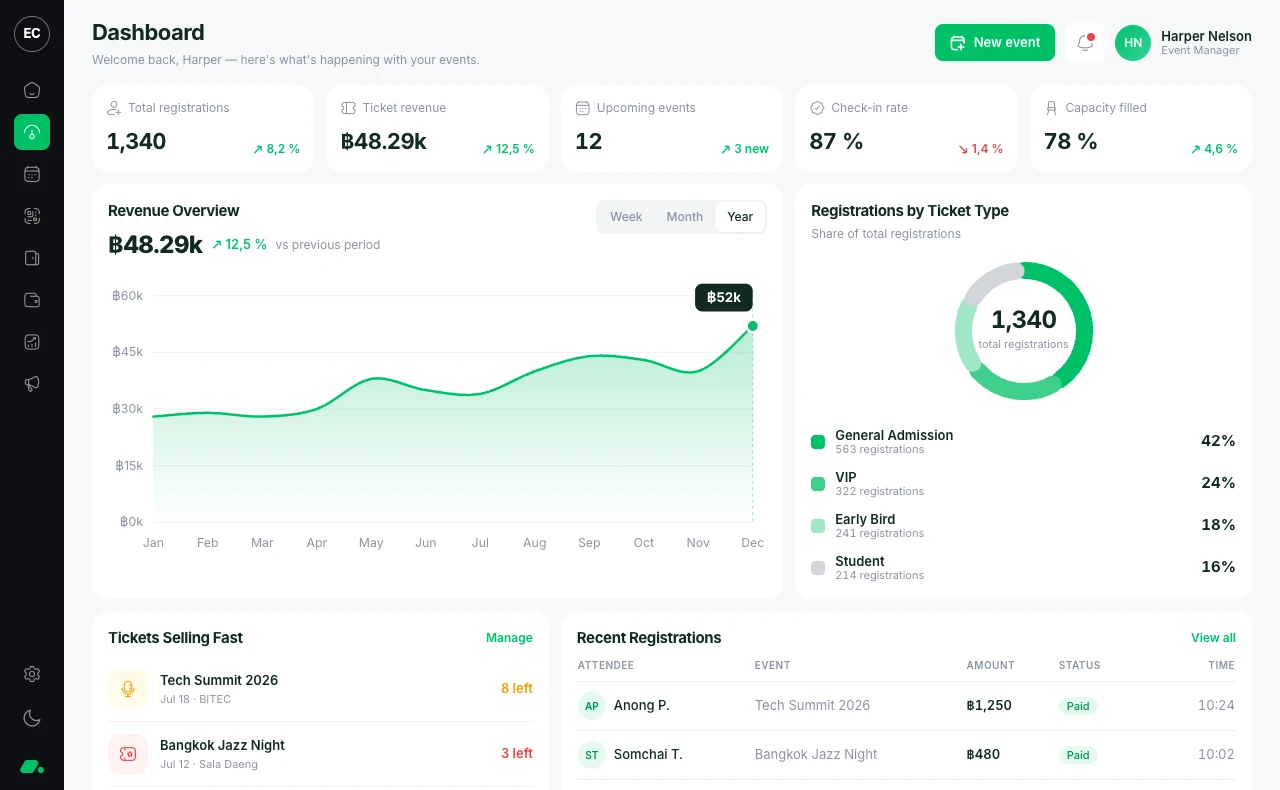
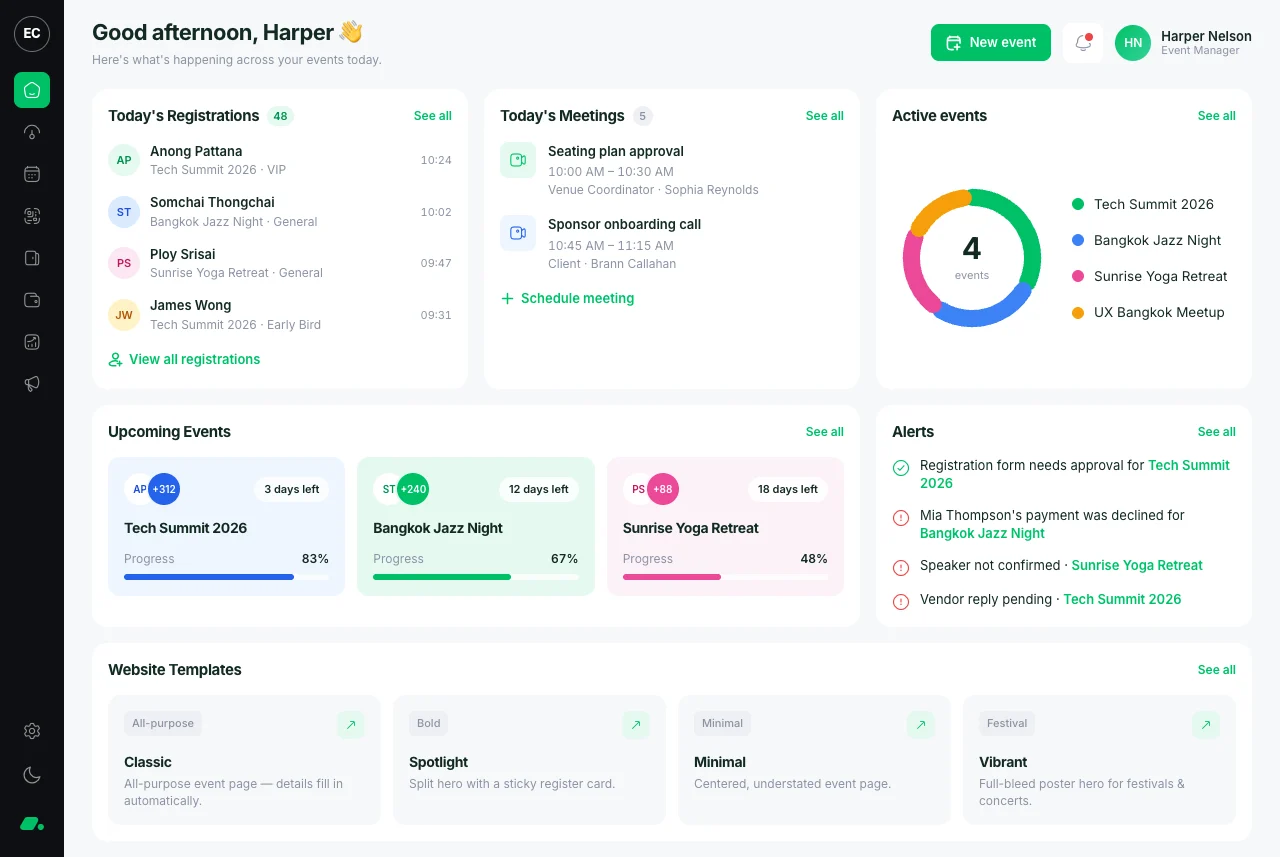
Show the Home screen in the hero instead of the dashboard
The hero is now a capture of the kit's admin/home.html at 1280x857, the
whole screen with nothing cut off. The capture is taller than the old
1280x790 one, so the 70/30 overlap and the fade are recalculated for the
new height on desktop and phones. The alt text and AGENTS.md follow.

diff --git a/css/styles.css b/css/styles.css
@@ -650,12 +650,12 @@ html:not(.js) .nav,
    --hero-gap: space between the copy and the product window.
    --hero-overlap: 70% of the frame's height. The frame is as wide as the
    container (100% less 48px of padding, at most 1152px); inside it, 22px of
-   padding and border hold the 1280 x 790 capture. That works out to 43.2% of
-   the width less 14.84px, at most 503.6px. (Margin and padding percentages
+   padding and border hold the 1280 x 857 capture. That works out to 46.87% of
+   the width less 17.41px, at most 545px. (Margin and padding percentages
    are shares of the width.) */
 .hero {
   --hero-gap: 64px;
-  --hero-overlap: min(503.6px, 43.2% - 14.84px);
+  --hero-overlap: min(545px, 46.87% - 17.41px);
   padding-top: var(--nav-h);
 }
 
@@ -668,7 +668,7 @@ html:not(.js) .nav,
    window sits above the card, so it stays sharp. --hero-fade is how tall the
    fade is. */
 .hero__panel {
-  --hero-fade: 440px;
+  --hero-fade: 476px;
   margin: 0 clamp(8px, 1.4vw, 20px);
   padding: 56px 0 calc(var(--hero-gap) + var(--hero-overlap));
   overflow: hidden;
@@ -1775,17 +1775,17 @@ html:not(.js) .nav,
     padding: 0 16px;
   }
 
-  /* Phones show the same 1280 x 790 capture. The frame is as wide as the
+  /* Phones show the same 1280 x 857 capture. The frame is as wide as the
      container (100% less 32px of padding), with 18px of padding and border
-     around the capture: 70% of its height is 43.2% of the width less 9px.
+     around the capture: 70% of its height is 46.87% of the width less 10.83px.
      The fade starts below the frame's top edge, as on desktop. */
   .hero {
     --hero-gap: 40px;
-    --hero-overlap: calc(43.2% - 9px);
+    --hero-overlap: calc(46.87% - 10.83px);
   }
 
   .hero__panel {
-    --hero-fade: calc(37.8vw - 8px);
+    --hero-fade: calc(41vw - 9.5px);
     padding-top: 36px;
     border-radius: 26px 26px 0 0;
   }

diff --git a/index.html b/index.html
@@ -162,11 +162,11 @@
           </div>
         </div>
 
-        <!-- The real product: the Eventa dashboard as captured from the UI kit
-             (sample data), in a frosted frame. Pulled up so 70% of it sits on the
-             green card and 30% on the page. Phones show the same screen, scaled
-             down. sizes: the frame's width less its 22px (18px on phones) of
-             padding and border. -->
+        <!-- The real product: the Eventa home screen (eventa-ui-kit
+             admin/home.html) with sample data, in a frosted frame. Pulled up so
+             70% of it sits on the green card and 30% on the page. Phones show
+             the same screen, scaled down. sizes: the frame's width less its
+             22px (18px on phones) of padding and border. -->
         <div class="container hero__showcase">
           <div class="hero__stage" data-reveal="zoom" style="--d: 380ms">
             <div class="hero__frame">
@@ -176,10 +176,10 @@
                   srcset="assets/shots/hero@1x.webp 1280w, assets/shots/hero@2x.webp 2560w"
                   sizes="(max-width: 720px) calc(100vw - 50px), min(1130px, calc(100vw - 70px))"
                   width="1280"
-                  height="790"
+                  height="857"
                   fetchpriority="high"
                   decoding="async"
-                  alt="The Eventa dashboard: 1,340 registrations, ฿48.29k in ticket revenue, 12 upcoming events, an 87% check-in rate and 78% of capacity filled."
+                  alt="The Eventa home screen: 48 registrations and 5 meetings today, 4 active events, three upcoming events at 83%, 67% and 48% progress, alerts that need attention and event page templates."
                 />
               </div>
             </div>

diff --git a/AGENTS.md b/AGENTS.md
@@ -61,8 +61,8 @@ grep -n PLACEHOLDER index.html   # undecided links, contact channel, beta notice
 ## Product screenshots
 
 `ls assets/shots` lists the shots (`<name>@1x.webp` and `@2x`). Each one's kit page is in the
-`index.html` comment before it; the hero's is `admin/dashboard.html`. No repo holds the capture
-script, so record each shot's viewport here: hero 1280×800; feature-sales, feature-attendees,
+`index.html` comment before it; the hero's is `admin/home.html`. No repo holds the capture
+script, so record each shot's viewport here: hero 1280×857; feature-sales, feature-attendees,
 solution-workshops-survey 1440×900; feature-messaging 760×900; solution-conferences,
 solution-concerts 760×1100; solution-workshops 1000×900.
 
